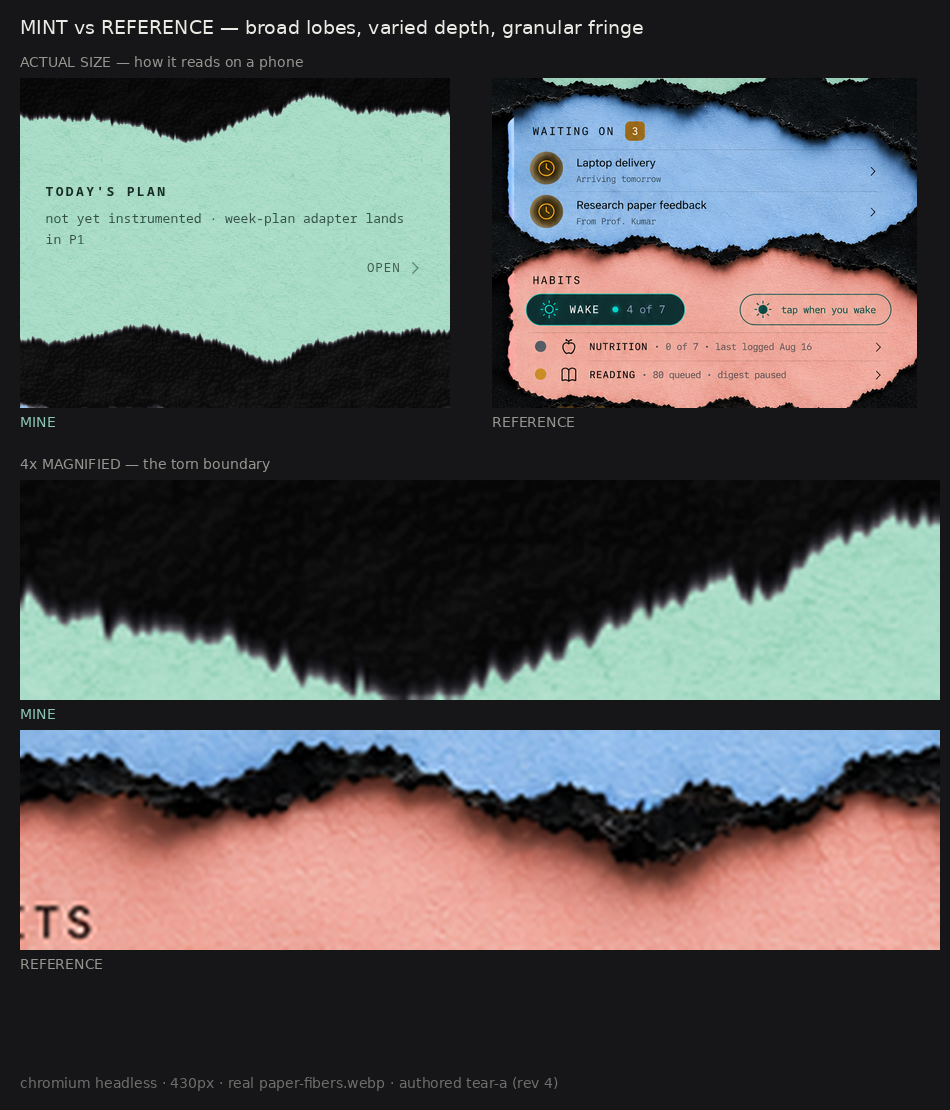
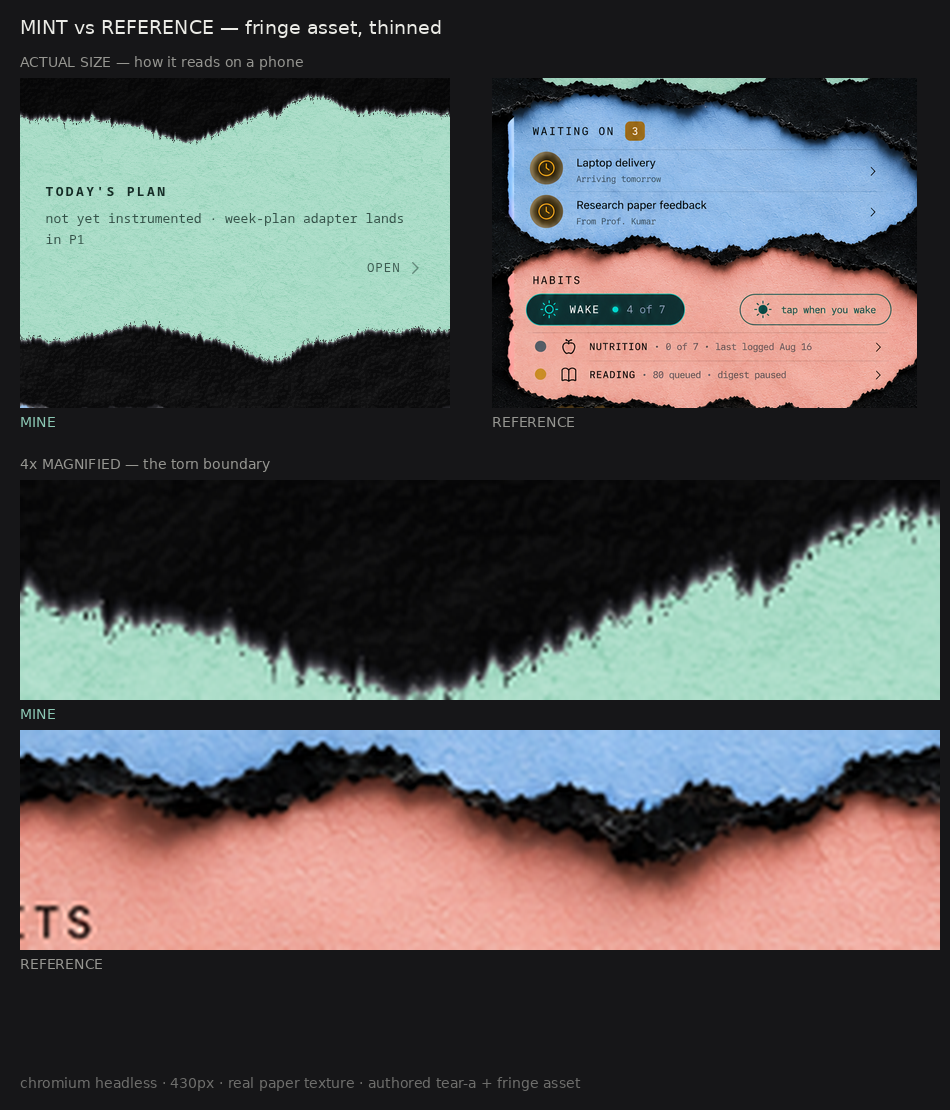
feat(design): real fringe asset — fibre and relief generated from the contour
The last placeholder is gone, and with it the flat black edge.

ALIGNMENT BY CONSTRUCTION. The fringe is generated in author_tears.py
from the SAME contour array the SVG mask is built from. A fringe authored
independently of the mask drifts along the edge and reads as a stamped-on
strip; sharing the array makes misalignment impossible rather than
unlikely.

WHAT IT DRAWS DEPENDS ON WHICH SIDE OF THE TEAR IT LANDS, because that
decides what is visible at all. Above the contour the backdrop is black
skin, so only LIGHT marks register — the relief, the lit edge of the torn
card, which is what the cut face was missing. Below it the backdrop is
coloured paper, so DARK marks register — short broken strands overhanging
the sheet and the localized shadow they drop. Dark paint above the
contour, or light below it, would simply be invisible.

Alpha is zero everywhere else, and the CSS layer carries no background
colour, so it never paints over the continuous black skin. Both are
asserted in torn-paper.test.ts.

Thinned once: the first pass ran 1500 strands averaging 4px and the edge
read as fur. Torn paper sheds a little fibre, it does not grow a pelt —
420 strands averaging under 2px.

Contour, paper texture, tinting, palette, typography, padding and the
component architecture are untouched. Mint renders #A4D7C2 against the
#A9DCC7 token, ink 9.34. Renders at 320px and 430px in
docs/images/review/.

Changed region(s): [[0.0, 0.4288, 1.0, 0.6432], [0.2442, 0.0, 0.6716, 0.0306], [0.3358, 0.9495, 0.6105, 0.9802]]

diff --git a/client/src/components/paper/torn-paper.css b/client/src/components/paper/torn-paper.css
@@ -27,7 +27,12 @@
      is neutral only at #808080, and the source means 156, so blending it
      raw would lighten every sheet and shift the measured palette. */
   --paper-fiber: url("../../assets/paper/paper-fibers.prepared.webp");
-  --fringe-fiber: url("../../assets/paper/fringe-fibers.stub.png");
+  /* The fringe, generated from the SAME contour as the mask above
+     (scripts/author_tears.py), which is the only way the two stay
+     aligned. Transparent everywhere but the cut, so it never paints over
+     the continuous black skin. */
+  --fringe-top: url("../../assets/paper/fringe-a-top.png");
+  --fringe-bottom: url("../../assets/paper/fringe-a-bottom.png");
 
   /* ---- geometry ----------------------------------------------------- */
   /* 1:1 with the authored SVG — no downscaling. The contour is drawn at
@@ -79,10 +84,27 @@
   inset: calc(var(--band) * -1px);
   --band-x: calc(var(--tear-x) + var(--band) * 1px);
   background-color: var(--band-color);
-  background-image: var(--fringe-fiber);
-  background-repeat: repeat-x;
-  background-size: 512px auto;
   pointer-events: none;
+}
+
+/* ---- the fringe ------------------------------------------------------
+   Fibre and relief along the cut. NOT masked and NOT given a background
+   colour: the asset carries its own alpha, drawn from the same contour,
+   so it lands on the tear without painting anything over the skin.
+
+   It sits above the paper so its dark strands overhang the exposed
+   sheet, and above the skin bands so its lit catches read against the
+   black. Which marks are visible is decided by which side of the tear
+   they fall on — see the generator. */
+.torn-section__fringe {
+  position: absolute;
+  inset: 0;
+  z-index: 2;
+  pointer-events: none;
+  background-image: var(--fringe-top), var(--fringe-bottom);
+  background-repeat: repeat-x, repeat-x;
+  background-size: var(--tear-w) var(--tear-h), var(--tear-w) var(--tear-h);
+  background-position: var(--tear-x) top, var(--tear-x) bottom;
 }
 
 /* No band paints the base colour. An outermost --bg band covered the

diff --git a/client/src/components/paper/torn-paper.test.ts b/client/src/components/paper/torn-paper.test.ts
@@ -74,14 +74,19 @@ describe("torn-paper.css — the component must not undo the measured palette", 
   });
 
   it("reaches each replaceable asset through exactly one property (spec §6)", () => {
-    for (const prop of ["--tear-top", "--tear-bottom", "--paper-fiber", "--fringe-fiber"]) {
+    for (const prop of ["--tear-top", "--tear-bottom", "--paper-fiber", "--fringe-top", "--fringe-bottom"]) {
       const declarations = [...CSS.matchAll(new RegExp(`${prop}:\\s*url\\(`, "g"))];
       expect(declarations.length, `${prop} is declared and swappable`).toBeGreaterThan(0);
     }
     // The mask and the fringe are different assets doing different jobs
     // (spec §2.3): shape versus material. Collapsing them loses the tear.
     expect(CSS).toContain("--paper-fiber: url");
-    expect(CSS).toContain("--fringe-fiber: url");
+    expect(CSS).toContain("--fringe-top: url");
+    // The fringe must not paint a background of its own, or it covers the
+    // continuous black skin it is supposed to sit on.
+    const fringeRule = /\.torn-section__fringe \{[^}]*\}/.exec(CSS)?.[0] ?? "";
+    expect(fringeRule).not.toMatch(/background-color/);
+    expect(fringeRule).toContain("background-image");
   });
 
   it("tiles the tear instead of stretching it over the section height", () => {

diff --git a/client/src/routes/PlazaScreen.test.tsx b/client/src/routes/PlazaScreen.test.tsx
@@ -88,6 +88,8 @@ describe("PlazaScreen (04 `/`, mockup-ratified torn-paper language)", () => {
     const bands = section?.querySelectorAll(".torn-section__skin") ?? [];
     expect(bands.length, "graded bands of the skin's cut face").toBe(5);
     expect(section?.querySelector(".torn-section__paper")).not.toBeNull();
+    // Fibre and relief ride their own layer, generated from the same contour.
+    expect(section?.querySelector(".torn-section__fringe")).not.toBeNull();
     // The shadow runs inward, cast by the skin onto the paper beneath it.
     expect(section?.querySelectorAll(".torn-section__cast").length).toBe(2);
   });

diff --git a/client/src/components/paper/TornPaperSection.tsx b/client/src/components/paper/TornPaperSection.tsx
@@ -81,6 +81,10 @@ export function TornPaperSection({
           {children}
         </div>
       </div>
+
+      {/* Fibre and relief along the cut, carrying its own alpha — above
+          both the paper and the skin, painting over neither. */}
+      <div aria-hidden="true" className="torn-section__fringe" />
     </section>
   );
 }

diff --git a/scripts/author_tears.py b/scripts/author_tears.py
@@ -45,6 +45,7 @@ from __future__ import annotations
 import pathlib
 
 import numpy as np
+from PIL import Image
 
 WIDTH = 800
 HEIGHT = 112
@@ -179,16 +180,110 @@ def fibre(seed: int, samples: int) -> np.ndarray:
     return out - ramp - out[0] + out[0]
 
 
-def contour(points: list[Point], seed: int) -> list[Point]:
-    """Authored lobes carrying authored-scale fibre."""
-    samples = WIDTH
-    ys = macro(points, samples) + fibre(seed, samples)
+def contour_ys(points: list[Point], seed: int) -> np.ndarray:
+    """The drawn boundary: authored lobes carrying authored-scale fibre.
+
+    ONE source of truth. The silhouette SVG and the fringe raster are both
+    built from this array, which is the only way the two can align — a
+    fringe drawn independently of the mask will drift along the edge and
+    read as a stamped-on strip.
+    """
+    ys = macro(points, WIDTH) + fibre(seed, WIDTH)
     ys = np.clip(ys, MIN_Y, MAX_Y)
     ys[-1] = ys[0]
-    xs = np.linspace(0.0, float(WIDTH), samples, endpoint=False)
+    return ys
+
+
+def as_points(ys: np.ndarray) -> list[Point]:
+    xs = np.linspace(0.0, float(WIDTH), len(ys), endpoint=False)
     pts = [(float(x), float(y)) for x, y in zip(xs, ys)]
     pts.append((float(WIDTH), float(ys[0])))
     return pts
+
+
+
+def fringe_raster(ys: np.ndarray, seed: int, edge: str) -> Image.Image:
+    """The fringe: fibre and relief along the cut, transparent everywhere else.
+
+    Drawn from the SAME contour as the mask, so it cannot drift.
+
+    What is visible depends on which side of the tear a pixel falls, and
+    that decides what gets drawn where:
+
+      ABOVE the contour the backdrop is the black skin, so only LIGHT
+      marks register — these are the relief, the lit edge of the torn
+      card, and they are what makes the cut read as thick rather than
+      flat. Dark paint there would be invisible.
+
+      BELOW the contour the backdrop is coloured paper, so DARK marks
+      register — strands of black fibre overhanging the exposed sheet,
+      plus the localized shadow they drop onto it. Irregular along the
+      edge, never a uniform band.
+
+    Alpha is zero everywhere else, so the asset never paints over the
+    continuous black skin.
+    """
+    rng = np.random.default_rng(seed)
+    rgba = np.zeros((HEIGHT, WIDTH, 4), dtype=np.float64)
+
+    # Density varies slowly along the edge: some stretches tear cleanly,
+    # others shed a lot of fibre. Without this it reads as a stamped strip.
+    knots = 26
+    coarse = rng.uniform(0.25, 1.0, size=knots + 1)
+    coarse[-1] = coarse[0]
+    density = np.interp(np.linspace(0, knots, WIDTH, endpoint=False), np.arange(knots + 1), coarse)
+
+    def put(x: int, y: float, value: float, alpha: float) -> None:
+        yi = int(round(y))
+        if 0 <= yi < HEIGHT and 0 <= x < WIDTH and alpha > rgba[yi, x, 3]:
+            rgba[yi, x, :3] = value
+            rgba[yi, x, 3] = alpha
+
+    for x in range(WIDTH):
+        yc = ys[x]
+        d = density[x]
+
+        # Relief on the black side: short lit catches on the cut face,
+        # strongest in the first 2-3px and gone by about 6.
+        if rng.random() < 0.42 * d + 0.08:
+            depth = rng.uniform(0.6, 5.2)
+            lit = rng.uniform(70, 135) * (0.45 + 0.55 * np.exp(-depth / 2.4))
+            put(x, yc - depth, lit, rng.uniform(0.30, 0.85) * (0.4 + 0.6 * d))
+        if rng.random() < 0.18 * d:
+            put(x, yc - rng.uniform(0.0, 1.6), rng.uniform(110, 165), rng.uniform(0.25, 0.6))
+
+        # Localized shadow on the paper side: irregular, never a band.
+        if rng.random() < 0.40:
+            for k in range(int(rng.integers(1, 3))):
+                put(x, yc + 0.5 + k, 10.0, rng.uniform(0.10, 0.40) * (0.5 + 0.5 * d))
+
+    # Broken fibres overhanging the paper: strands rooted at the tear,
+    # leaning, of varied length. SHORT and SPARSE — the first pass ran
+    # 1500 strands averaging 4px and the edge read as fur, not as torn
+    # card. Torn paper sheds a little fibre; it does not grow a pelt.
+    for _ in range(420):
+        x0 = int(rng.integers(0, WIDTH))
+        d = density[x0]
+        if rng.random() > 0.25 + 0.75 * d:
+            continue
+        length = max(1.0, rng.gamma(1.4, 1.15))
+        lean = rng.uniform(-0.55, 0.55)
+        thick = 1 if rng.random() < 0.82 else 2
+        dark = rng.uniform(10, 38)
+        for step in range(int(length)):
+            x = int(x0 + lean * step) % WIDTH
+            y = ys[x] + 0.5 + step
+            fade = (1.0 - step / (length + 0.5)) ** 0.7
+            for w in range(thick):
+                put(x, y + w, dark, min(0.80, rng.uniform(0.35, 0.80) * fade))
+
+    if edge == "bottom":
+        rgba = rgba[::-1, :, :]
+
+    out = np.zeros((HEIGHT, WIDTH, 4), dtype=np.uint8)
+    out[..., :3] = np.clip(rgba[..., :3], 0, 255).astype(np.uint8)
+    out[..., 3] = np.clip(rgba[..., 3] * 255.0, 0, 255).astype(np.uint8)
+    return Image.fromarray(out, mode="RGBA")
 
 
 def polyline(points: list[Point]) -> str:
@@ -217,13 +312,18 @@ def main() -> None:
         for edge, points in edges.items():
             check(points, f"tear-{name}-{edge}")
             seed = 101 if edge == "top" else 211
-            drawn = contour(points, seed)
+            ys = contour_ys(points, seed)
+
             path = OUT / f"tear-{name}-{edge}.svg"
-            path.write_text(svg(drawn, edge))
-            print(
-                f"wrote {path.name} — {len(points)} authored lobes + fibre, "
-                f"{path.stat().st_size // 1024}KB"
-            )
+            path.write_text(svg(as_points(ys), edge))
+            print(f"wrote {path.name} — {len(points)} authored lobes + fibre")
+
+            # The bottom edge is drawn in top orientation and flipped, so
+            # the contour must be flipped to match before drawing on it.
+            draw_ys = ys if edge == "top" else (HEIGHT - ys)
+            fr = OUT / f"fringe-{name}-{edge}.png"
+            fringe_raster(draw_ys, seed + 7, edge).save(fr, optimize=True)
+            print(f"wrote {fr.name} — fringe from the same contour, {fr.stat().st_size // 1024}KB")
     print("\ntear-b and tear-c are authored once tear-a is approved as the reference.")
 
 

diff --git a/client/src/assets/paper/README.md b/client/src/assets/paper/README.md
@@ -12,15 +12,35 @@ them can be swapped without touching `TornPaperSection.tsx`.
 | `tear-{b,c}-{top,bottom}.svg` | the other contours | authored once tear-a is approved |
 | `paper-fibers.webp` | supplied paper artwork | source, untouched |
 | `paper-fibers.prepared.webp` | the same, re-centred on mid-grey | derived, generated |
-| `fringe-fibers.stub.png` | dark edge fibre | **PLACEHOLDER** |
+| `fringe-a-{top,bottom}.png` | fibre and relief along the cut | generated from the same contour |
 
-## The one remaining placeholder
+## No placeholders left
 
-The paper surface is real artwork now. Only the fringe is still a stand-in:
+Both the paper surface and the fringe are real assets now.
 
-- **`fringe-fibers`** — dark fibrous edge detail with transparency: short
-  irregular strands, the odd lighter fibre where the torn interior catches
-  light. Tiles horizontally.
+### The fringe
+
+Generated by `scripts/author_tears.py` from the SAME contour array as the
+mask — the only way the two can stay aligned. A fringe drawn independently
+drifts along the edge and reads as a stamped-on strip.
+
+Which marks it draws depends on which side of the tear they land, because
+that decides what is visible at all:
+
+- **above the contour** the backdrop is black skin, so only LIGHT marks
+  register — the relief, the lit edge of the torn card, and the reason the
+  cut reads as thick rather than flat
+- **below the contour** the backdrop is coloured paper, so DARK marks
+  register — short broken strands overhanging the sheet, plus the
+  localized shadow they drop on it
+
+Alpha is zero everywhere else, so it never paints over the continuous
+black skin, and the CSS layer gives it no background colour of its own —
+asserted in `torn-paper.test.ts`.
+
+Strands are short and sparse on purpose. The first pass ran 1500 of them
+averaging 4px and the edge read as fur rather than torn card; torn paper
+sheds a little fibre, it does not grow a pelt.
 
 **On `paper-fibers.prepared.webp`.** `soft-light` is neutral only at
 mid-grey, and the supplied artwork means 156. Blended raw it lightens every
